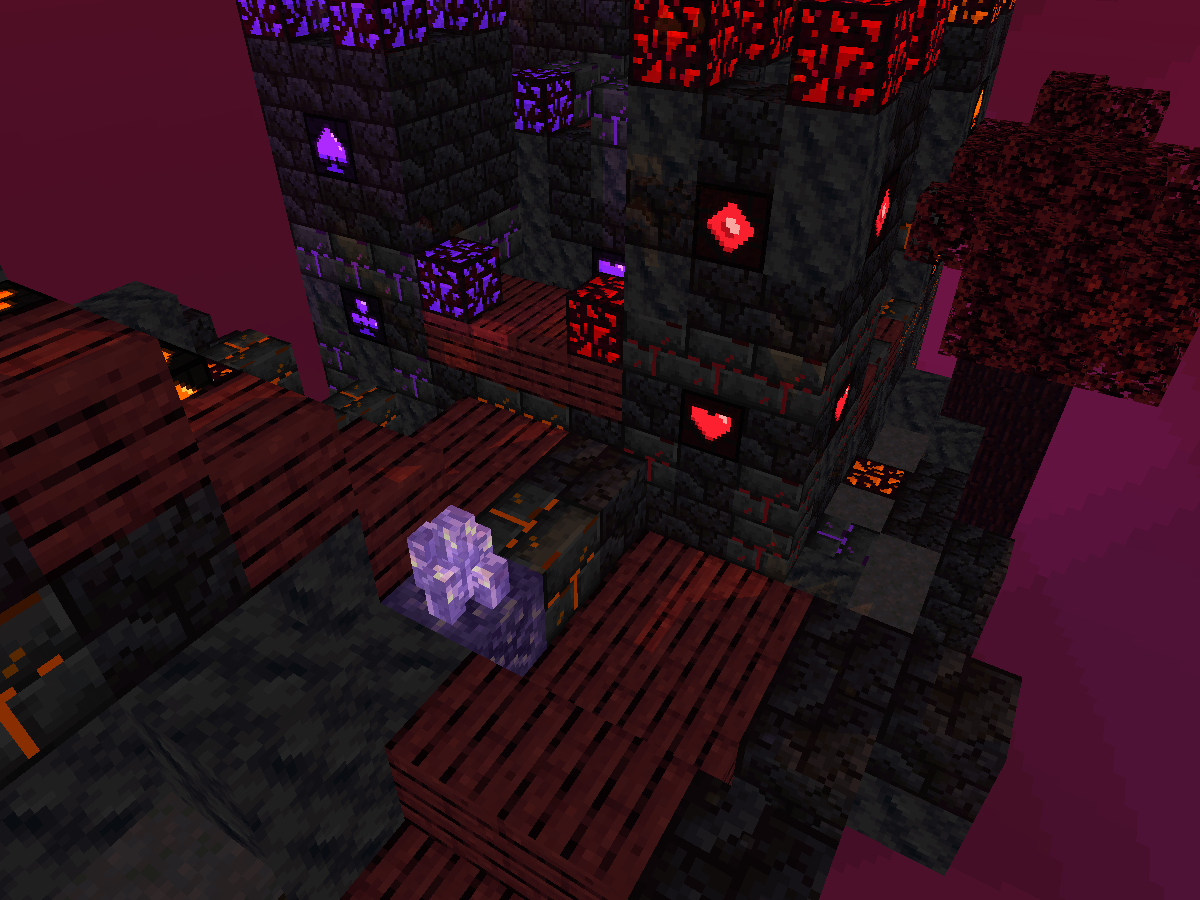
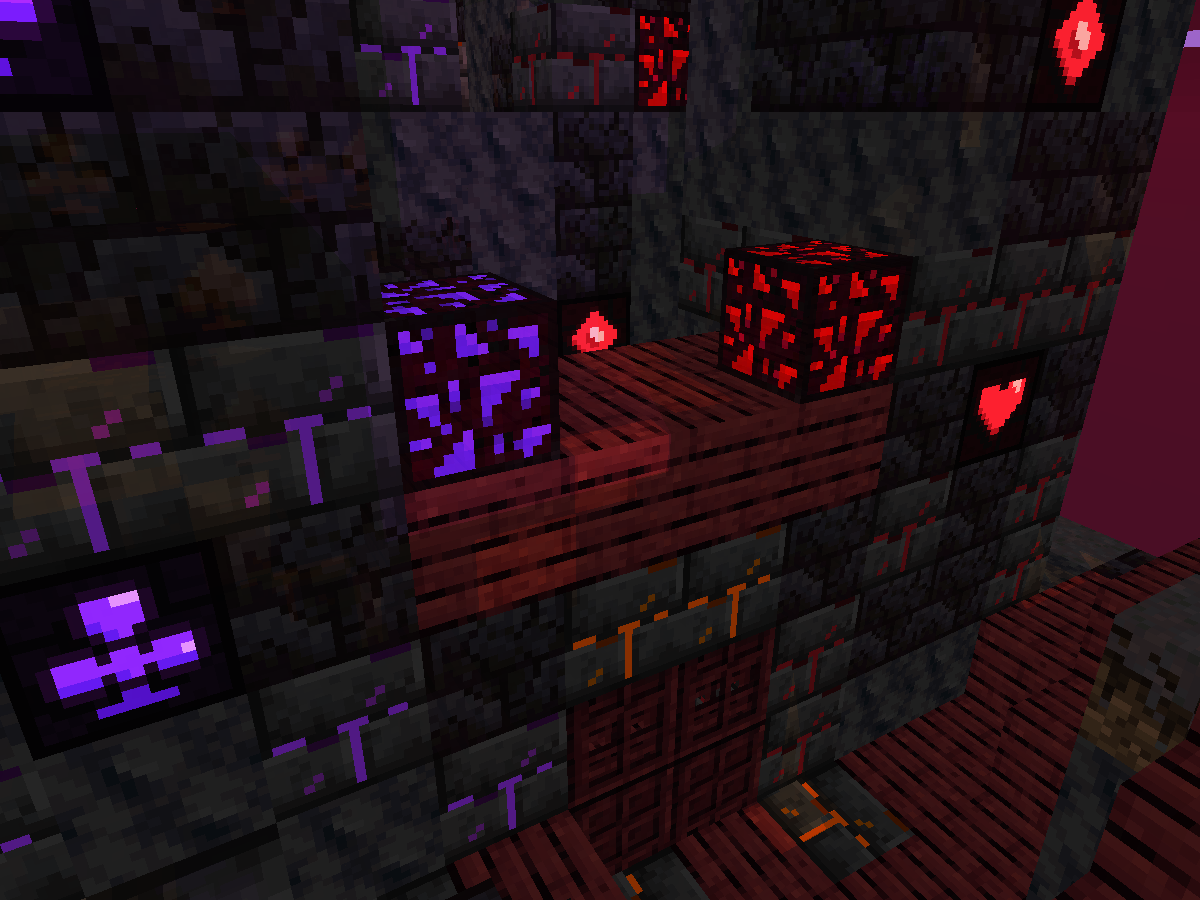
docs: reframe the red-black screenshots on red-black materials
The previous red-black captures still showed the grey overworld stone of the island's underside in the foreground, which made the realm's palette look mixed. Reframe the fortress, its approach and interior, the house, its interior and the eclipse view so corinto timber, dark stone and the emissive card symbols fill the frame, and update the alt texts to match.

diff --git a/README.md b/README.md
@@ -120,7 +120,7 @@ La mitad invertida. Aquí el mundo cuelga hacia abajo y su luz sale de los propi
 
 <table>
 <tr>
-<td width="50%"><img src="docs/screenshots/readme/08-red-black-approach.png" alt="El camino corinto que lleva a la puerta de la fortaleza, con un cúmulo de amatista al lado"></td>
+<td width="50%"><img src="docs/screenshots/readme/08-red-black-approach.png" alt="La puerta de la fortaleza Red-Black con su camino corinto y los símbolos luminosos de la baraja en el muro"></td>
 <td width="50%"><img src="docs/screenshots/readme/20-red-black-house.png" alt="La casa Red-Black con sus lámparas encendidas, en la cara inferior de la isla"></td>
 </tr>
 <tr>
@@ -129,7 +129,7 @@ La mitad invertida. Aquí el mundo cuelga hacia abajo y su luz sale de los propi
 </tr>
 </table>
 
-![La silueta de la fortaleza contra la luna eclipsada del cielo Red-Black](docs/screenshots/readme/17-skybox-night.png)
+![La luna eclipsada del cielo Red-Black sobre los árboles carmesí y la fortaleza](docs/screenshots/readme/17-skybox-night.png)
 
 ---
 
